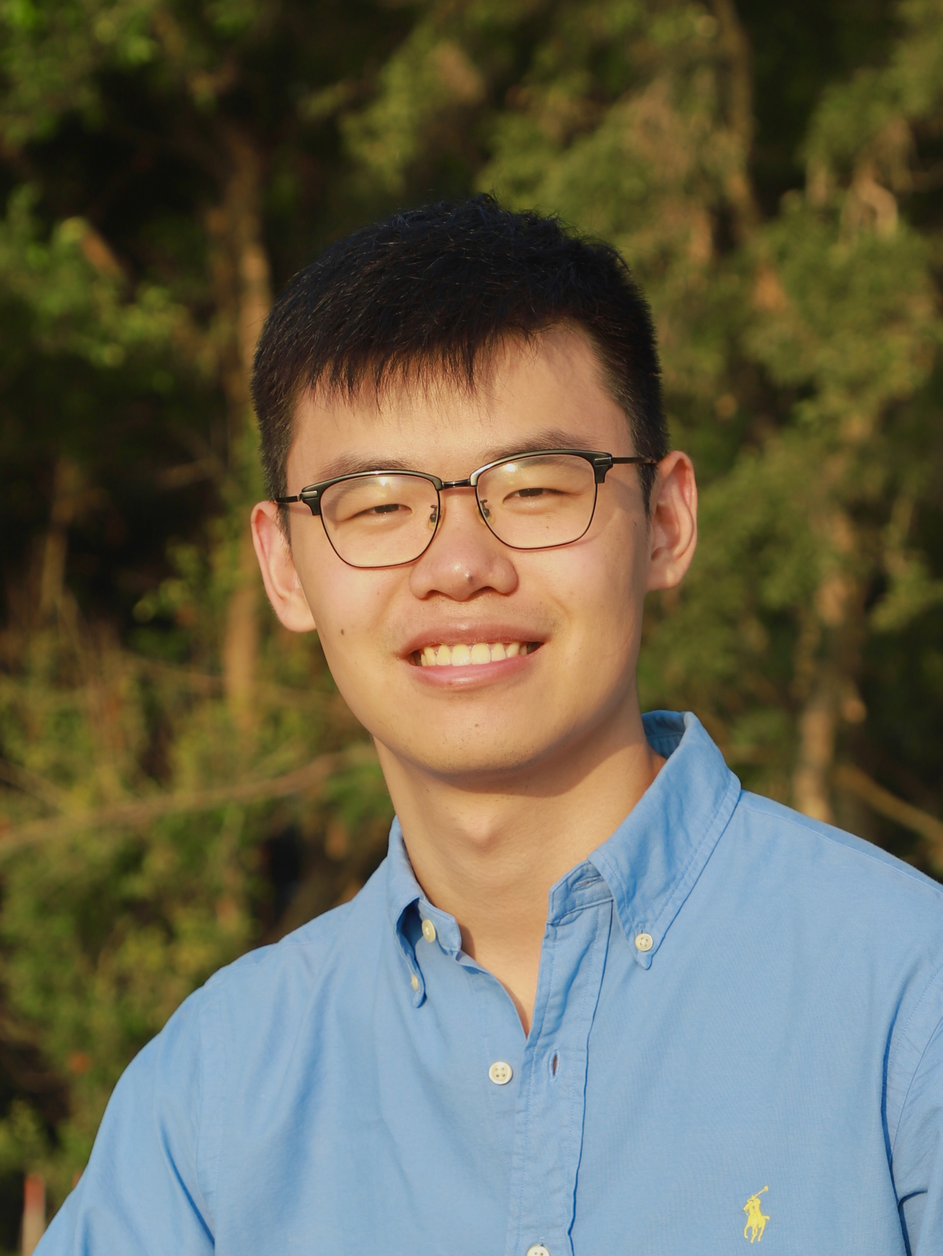
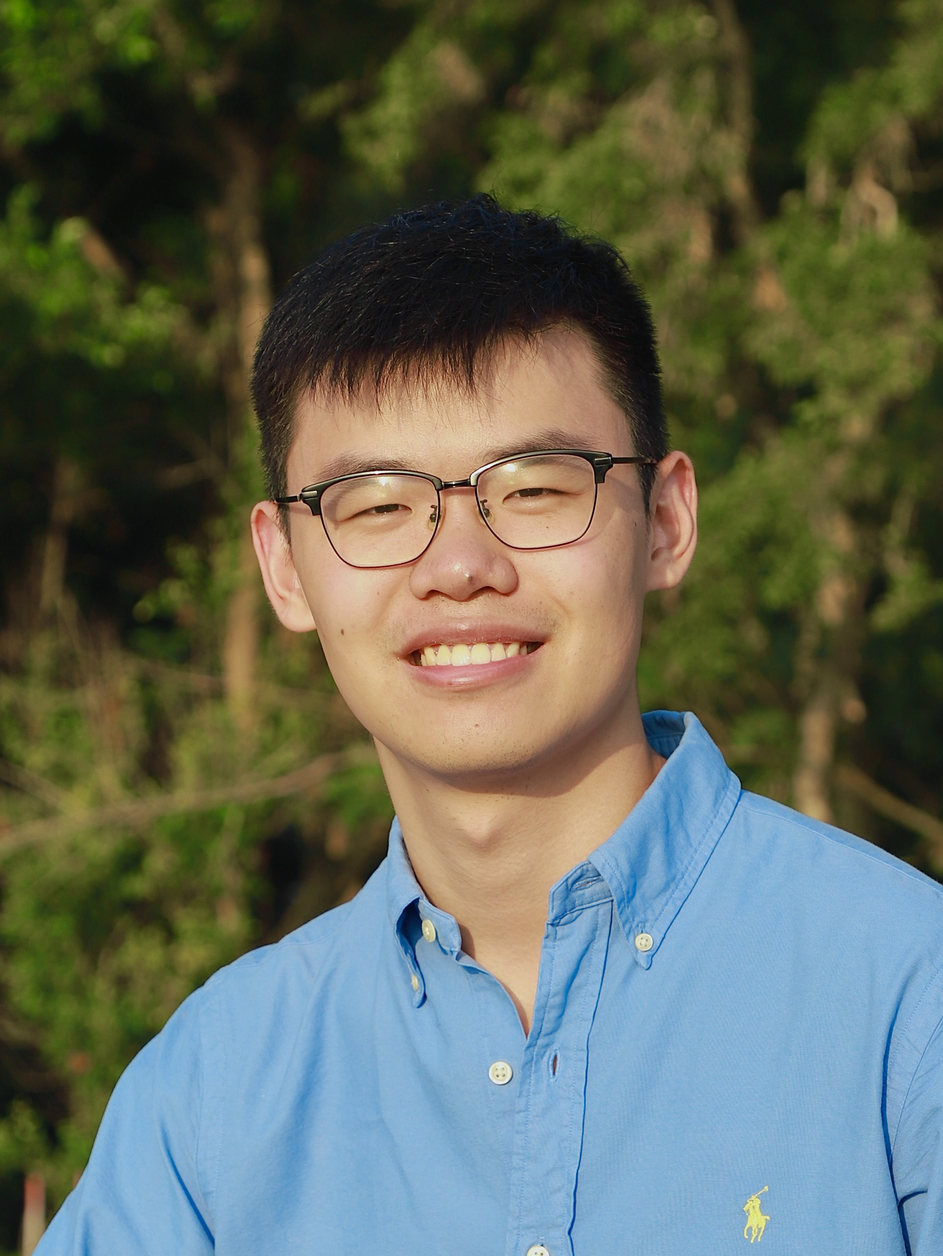
update

diff --git a/index.html b/index.html
@@ -294,10 +294,10 @@
             </td>
           </tr>
         </tbody></table>
-        <center>
+        <!-- <center>
         <div id="clustrmaps-widget" style="width:20%">
           <script type="text/javascript" id="clustrmaps" src="//clustrmaps.com/map_v2.js?d=SmMu6qAhfyhxX-PHSpM-woYT9fmQMUyDOkkIQt5KP9Q&cl=ffffff&w=a"></script>
-          </div></center>
+          </div></center> -->
 
       </td>
     </tr>
